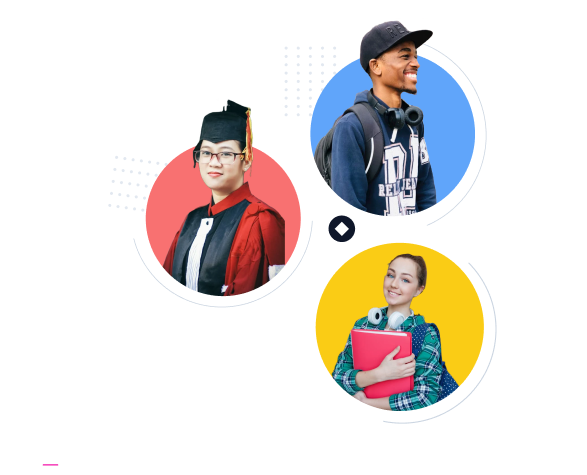
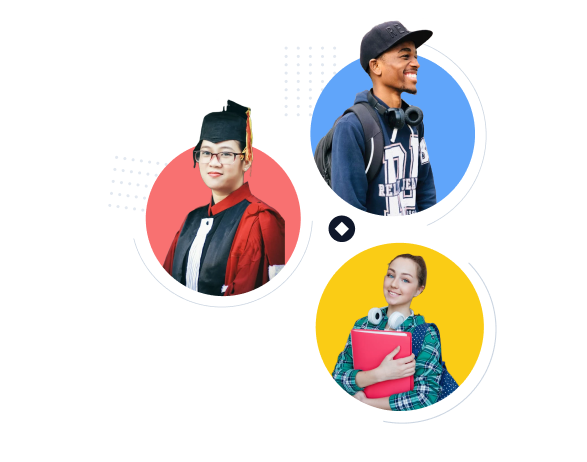
style(landing): polish navbar and hero responsiveness

diff --git a/deep-learn-client/src/pages/landing/sections/HeroSection.tsx b/deep-learn-client/src/pages/landing/sections/HeroSection.tsx
@@ -4,7 +4,7 @@ export default function HeroSection () {
     const navigate = useNavigate();
     
     return (
-        <section className="mx-auto max-w-7xl px-6 py-16 grid md:grid-cols-2 gap-10">
+        <section className="mx-auto max-w-7xl px-6 py-12 grid md:grid-cols-2 gap-10">
             <div>
                 <h1 className="mx-auto max-w-7xl px-6 py-16 grid md:grid-cols-2 gap-10">
                     Unlock Your Potential <br/> with Deep Learn
@@ -21,9 +21,14 @@ export default function HeroSection () {
                     Select Your Plan
                 </button>
             </div>
-            <div>
-                <img src="/hero.png" alt="Learning illustration" className="w-full" />
+            <div className="hidden md:block">
+                <img
+                    src="/hero.png"
+                    alt="Learning illustration"
+                    className="w-full"
+                />
             </div>
+
         </section>
     )
 }

diff --git a/deep-learn-client/src/components/navbar/NavbarActions.tsx b/deep-learn-client/src/components/navbar/NavbarActions.tsx
@@ -19,13 +19,13 @@ export default function NavbarActions ({
             <div className="flex items-center gap-3">
                 <button
                     onClick={()=> navigate('login')}
-                    className="text-sm"
+                    className="rounded-md border px-4 py-2 text-sm"
                 >
                     Login
                 </button>
                 <button
                     onClick={() => navigate('/signup')}
-                    className="rounded-md bg-[color:var(--color-primary)] px-4 py-2 text-sm text-whilte"
+                    className="rounded-md bg-[color:var(--color-primary)] px-4 py-2 text-sm text-white"
                 >
                     Sign up
                 </button>

diff --git a/deep-learn-client/src/components/navbar/NavbarLogo.tsx b/deep-learn-client/src/components/navbar/NavbarLogo.tsx
@@ -1,4 +1,5 @@
 import { useNavigate } from "react-router-dom";
+import logo from '/logo.png'
 
 export default function NavbarLogo () {
     const navigate = useNavigate();
@@ -8,7 +9,11 @@ export default function NavbarLogo () {
             onClick={()=>navigate('/')}
             className = "text-lg font-semibold"
         >
-            Deep Learn  
+            <img
+        src={logo}
+        alt="DeepLearn"
+        className="h-8 w-auto"
+      /> 
         </button>
     )
 }
